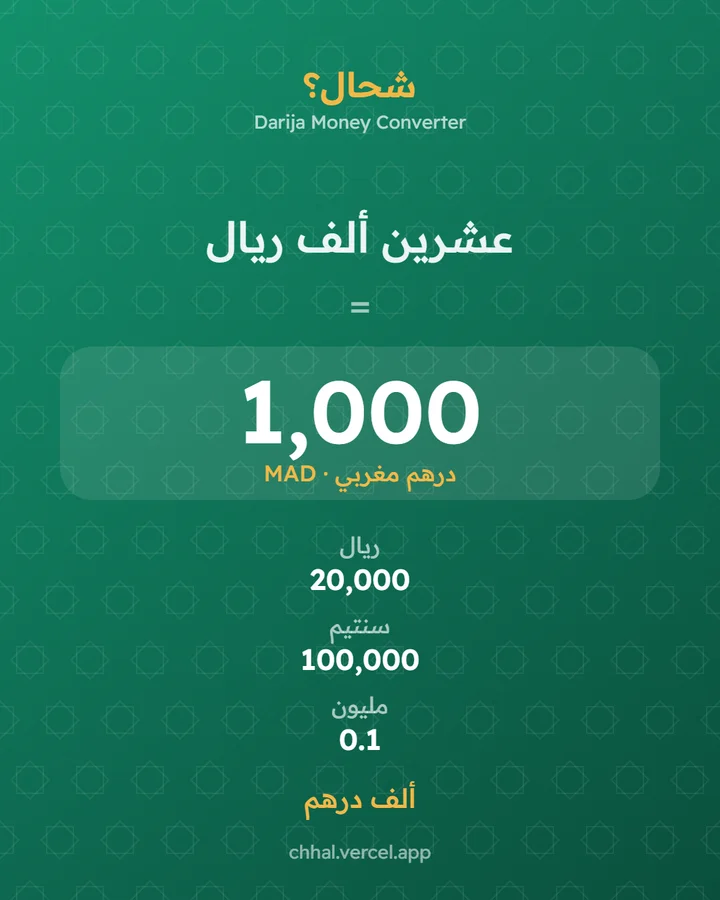
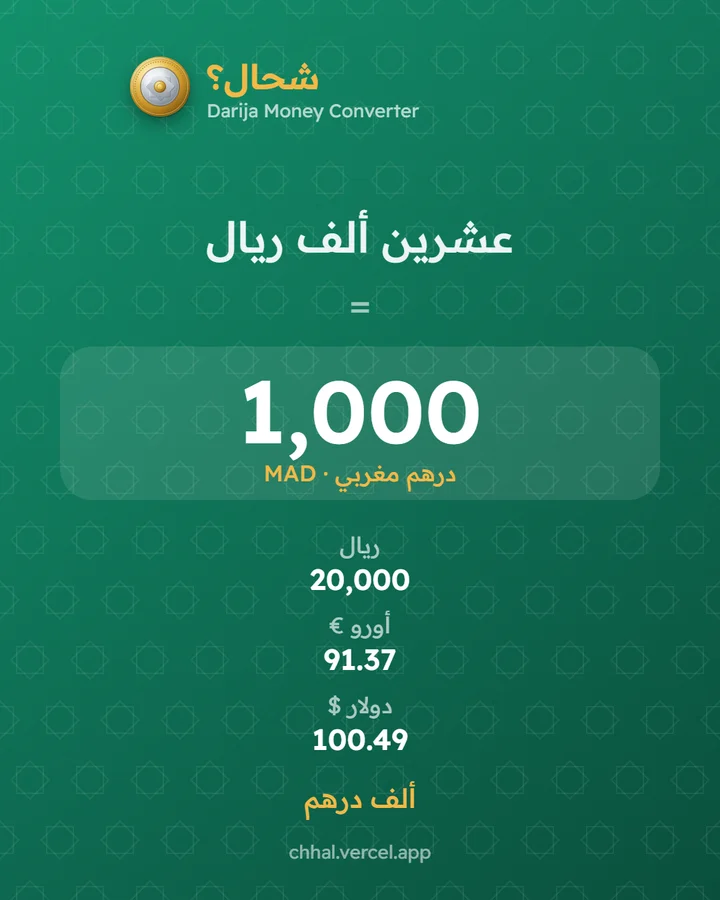
docs: README, changelog and wiki for v0.5.0

Changed region(s): [[0.1833, 0.0622, 0.6417, 0.1556], [0.3972, 0.6844, 0.5806, 0.7467], [0.4278, 0.7778, 0.5806, 0.84]]

diff --git a/README.md b/README.md
@@ -1,16 +1,17 @@
 # شحال؟ Chhal? — Darija Money Converter
 
-> Type or say a price the way Moroccans say it — **"عشرين ألف ريال"**, **"جوج د المليون"**, **"3chrin alf ryal"** — and get Dirham instantly. Works the other way round too, and keeps working offline.
+> Type or say a price the way Moroccans say it — **"عشرين ألف ريال"**, **"جوج د المليون"**, **"3chrin alf ryal"**, **"100 euro"** — and get Dirham instantly. Works the other way round, keeps working offline, and comes with a souk kit for haggling, paying and learning.
 
 [![CI](https://github.com/Bosaj/darija-money-converter/actions/workflows/ci.yml/badge.svg)](https://github.com/Bosaj/darija-money-converter/actions/workflows/ci.yml)
 ![License: MIT](https://img.shields.io/badge/license-MIT-green)
 ![PWA](https://img.shields.io/badge/PWA-offline--ready-0f7b5f)
 
-**Live:** https://darija-money-converter.vercel.app · **Status:** v0.4 — all four roadmap milestones shipped.
+**Live:** https://darija-money-converter.vercel.app · **Status:** v0.5 — foreign currencies, coin logo, souk kit, calculator.
 **Author:** Oussama EL HADJI. Part of the Bosaj ideas portfolio (sibling repo: `dual_portfolio_hub`).
 
+<p align="center"><img src="docs/coin-logo.webp" alt="Chhal coin logo: bimetallic brass and nickel coin with a zellige star" width="120" /></p>
 <p align="center">
-  <img src="docs/screenshot-desktop-dark.webp" alt="Desktop, dark theme: 'jouj dlmelyoun w nss' converted to 25,000 DH" width="760" />
+  <img src="docs/screenshot-desktop-light.webp" alt="Desktop: '100 euro' converted to Dirham with say-it phrases, souk kit and foreign currencies" width="760" />
 </p>
 <p align="center">
   <img src="docs/screenshot-mobile-ar.webp" alt="Mobile, Arabic RTL: 'عشرين ألف ريال' = 1,000 درهم" width="260" />
@@ -35,8 +36,16 @@ In Morocco people quote prices in **rial**, **santim/franc** or **millions** —
 | **Regional presets** | General, Oriental (Oujda…), North (Tangier, Tetouan…) and a custom preset. Unverified values are flagged, with a one-click "correct this value" issue form. |
 | **Voice input** | Dictate the price (Web Speech API, `ar-MA`), parsed by the same Darija engine. |
 | **Share cards** | One tap renders a 1080×1350 price card and opens the native share sheet (or downloads the PNG). |
+| **Euro, dollar & more** | `100 euro`, `50€`, `$20`, `ألف أورو`, plus GBP, CAD, CHF, SAR, AED. Two-word names such as `ريال سعودي` or `فرنك سويسري` don't clash with the Moroccan rial or franc. Live mid-market rates, cached for offline use, with a dated fallback. |
+| **Calculator** | `3 x 15 dh`, `500 ريال × 4`: the quantity shows in the "understood" line. |
+| **Souk kit** | *Haggle*: −10/−20/−30% counter-offers spoken in Darija ("نعطيك …") plus useful phrases. *Pay*: the fewest notes and coins to hand over. *Learn*: a cheat sheet and a price quiz with a streak counter. |
+| **Coin logo** | A bimetallic coin (brass ring, nickel centre, reeded edge, zellige star, struck inscription) that flips when tapped. |
 | **PWA** | Installable, fully offline, no backend, no tracking. Links are shareable: `?q=جوج د المليون`. |
 | **Three languages** | Darija/Arabic (RTL), French, English · light/dark/system theme · reduced-motion aware. |
+
+## Exchange rates
+
+Foreign values use daily mid-market rates from [ExchangeRate-API](https://www.exchangerate-api.com) (open access, no key). They are cached on the device, and a dated snapshot ships with the app for the first offline visit. Banks and exchange offices add a margin, so the app labels these values as approximate.
 
 ## The conversion table
 
@@ -64,11 +73,13 @@ src/
   lib/spell.ts            number → Darija words (Arabic + Arabizi), noun agreement
   lib/convert.ts          segments ⇄ Dirham, "say it like a local" phrases
   lib/shareCard.ts        canvas price card + Web Share API
+  lib/rates.ts            live MAD rates, device cache, dated snapshot
+  lib/souk.ts             haggle offers, cash breakdown, cheat sheet, quiz
   components/, App.tsx    React UI (Tailwind v4, RTL-first)
 ```
 
 - **No backend.** Everything runs client-side; the service worker precaches the app and fonts (Readex Pro, self-hosted).
-- **Correctness first.** 64 tests, including a round-trip check that every number the speller writes is read back exactly by the parser, in both scripts.
+- **Correctness first.** 91 tests, including round trips: every number the speller writes, every haggle offer and every quiz question must parse back to the same amount.
 
 ## Getting started
 
@@ -87,6 +98,7 @@ Requires Node 20+ (CI uses Node 24).
 - [x] v0.2 — regional presets + reverse conversion — [#2](https://github.com/Bosaj/darija-money-converter/issues/2)
 - [x] v0.3 — Darija voice / spoken-number input — [#3](https://github.com/Bosaj/darija-money-converter/issues/3)
 - [x] v0.4 — polished PWA, shareable price cards — [#4](https://github.com/Bosaj/darija-money-converter/issues/4)
+- [x] v0.5 — euro/dollar & foreign currencies, coin logo, souk kit, calculator — [#6](https://github.com/Bosaj/darija-money-converter/issues/6)–[#11](https://github.com/Bosaj/darija-money-converter/issues/11)
 - [ ] Next — confirm doro (and any other local terms) city by city; offline speech model for browsers without Web Speech.
 
 ---

diff --git a/CHANGELOG.md b/CHANGELOG.md
@@ -4,6 +4,20 @@ All notable changes to this project are documented here. Format: [Keep a Changel
 
 ## [Unreleased]
 
+## [0.5.0] - 2026-10-10
+### Added
+- Euro, US dollar and optional GBP, CAD, CHF, SAR, AED as parser units: words, symbols (`50€`, `$20`) and two-word names that don't clash with the Moroccan rial or franc. Live mid-market rates from ExchangeRate-API, a device cache, a dated offline snapshot, attribution, and an "approximate" note on converted totals. (#6)
+- Bimetallic coin logo (brass ring, nickel centre, reeded edge, zellige star, struck inscription) with a 3D flip and a light sweep. PWA icons, favicon and share card were regenerated from it. (#7)
+- Souk kit, haggle tab: −10/−20/−30% counter-offers spoken in Darija, plus useful phrases with text-to-speech. (#8)
+- Souk kit, pay tab: the fewest Moroccan notes and coins to hand over. (#9)
+- Souk kit, learn tab: a cheat sheet of common amounts and a price quiz with a streak counter. (#10)
+- Calculator quantities: `3 x 15 dh`, `500 ريال × 4`. (#11)
+
+### Changed
+- Spoken phrases round to 5 santim, so converted amounts read naturally.
+- The hero number scales with its length instead of truncating on small phones.
+- Souk kit sits below the results on phones.
+
 ## [0.4.0] - 2026-10-10
 First working release: all four roadmap milestones (v0.1–v0.4).
 
@@ -24,5 +38,6 @@ First working release: all four roadmap milestones (v0.1–v0.4).
 ### Added
 - Initial repository scaffold: README (with architecture, roadmap and an LLM-handoff section), LICENSE, .gitignore, CONTRIBUTING, issue/PR templates, and wiki pages.
 
-[Unreleased]: https://github.com/Bosaj/darija-money-converter/compare/v0.4.0...HEAD
+[Unreleased]: https://github.com/Bosaj/darija-money-converter/compare/v0.5.0...HEAD
+[0.5.0]: https://github.com/Bosaj/darija-money-converter/releases/tag/v0.5.0
 [0.4.0]: https://github.com/Bosaj/darija-money-converter/releases/tag/v0.4.0

diff --git a/wiki/1-Architecture.md b/wiki/1-Architecture.md
@@ -24,6 +24,8 @@ Client-side only: a React + Vite PWA. No backend, no analytics.
 | `lib/spell.ts` | Number to Darija words, noun agreement |
 | `lib/convert.ts` | Conversions and "say it like a local" |
 | `lib/shareCard.ts` | 1080×1350 price card |
+| `lib/rates.ts` | Live MAD exchange rates, device cache, dated snapshot |
+| `lib/souk.ts` | Haggle offers, cash breakdown, cheat sheet, quiz |
 
 ## Quality
-64 Vitest tests, including a spell → parse round trip in both scripts. CI runs type-check, tests and build on every PR.
+91 Vitest tests, including a spell → parse round trip in both scripts. CI runs type-check, tests and build on every PR.

diff --git a/wiki/2-Roadmap.md b/wiki/2-Roadmap.md
@@ -4,6 +4,7 @@
 - [x] v0.2 — regional presets (per city/region) + reverse conversion — #2
 - [x] v0.3 — Darija voice / spoken-number input — #3
 - [x] v0.4 — polished PWA, shareable price cards — #4 (released as v0.4.0)
+- [x] v0.5 — euro/dollar and foreign currencies (live rates), coin logo, souk kit (haggle, pay, learn), calculator — #6–#11 (released as v0.5.0)
 
 ## Next
 - Confirm the doro value city by city (use the "Regional value" issue form).
